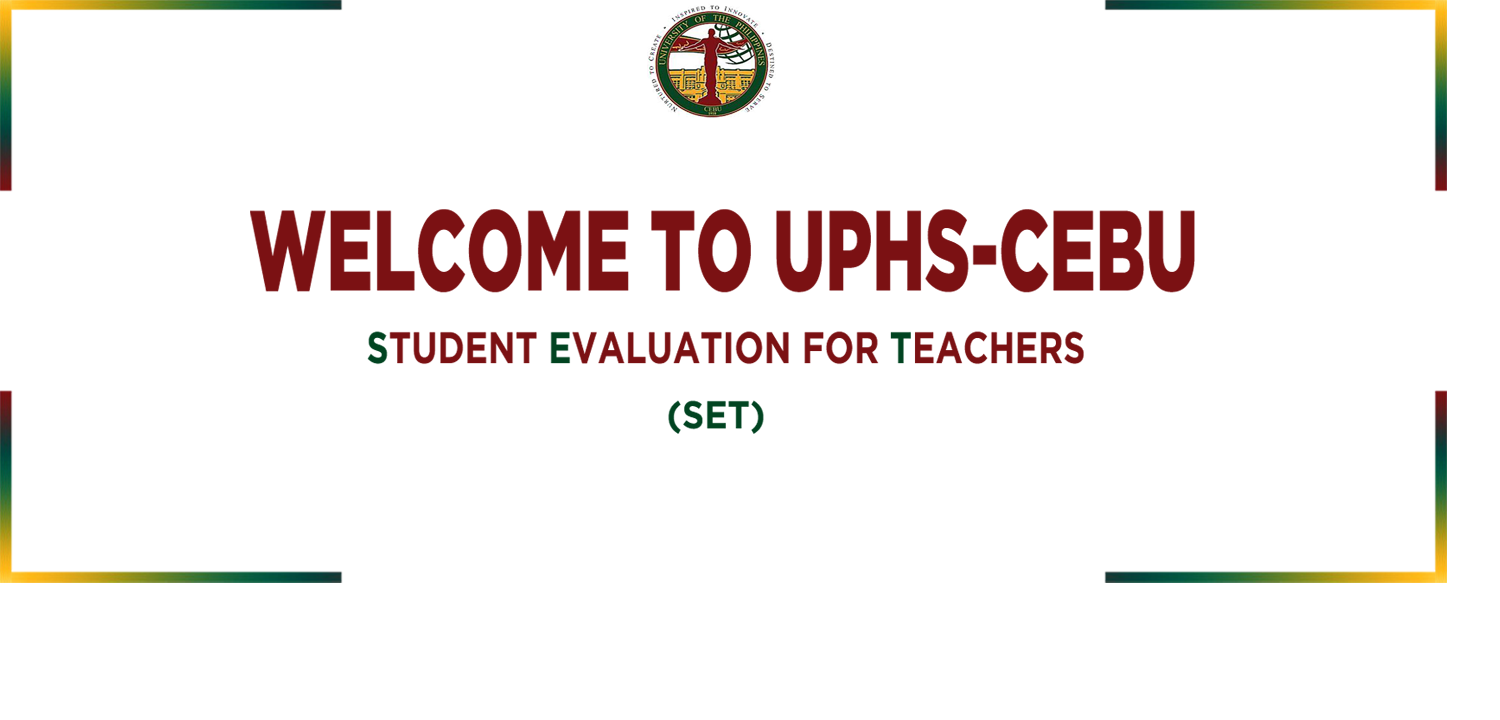
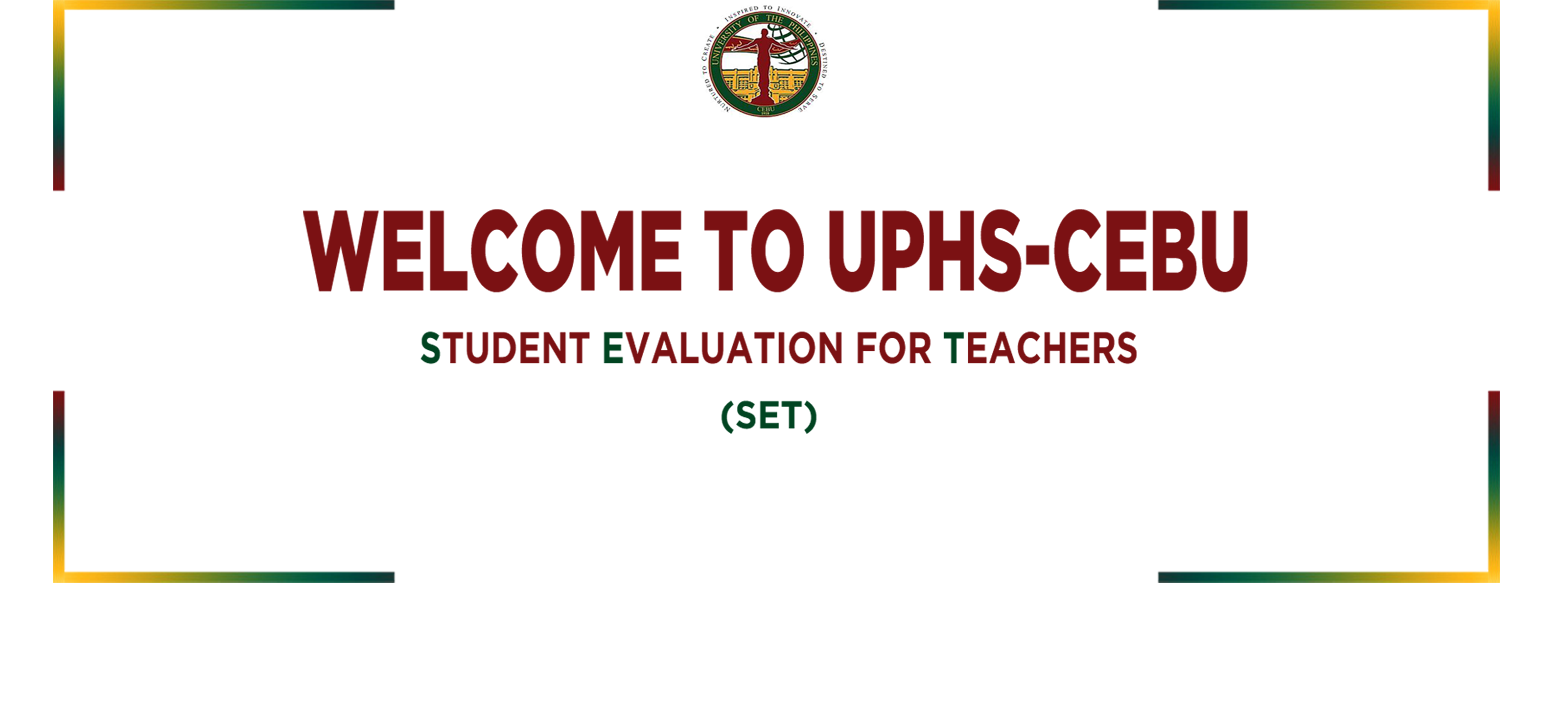
sidebar on top of page

diff --git a/public/js/custom/common.js b/public/js/custom/common.js
@@ -1,0 +1,26 @@
+function getSize() {
+    const width  = window.innerWidth || document.documentElement.clientWidth || 
+    document.body.clientWidth;
+    const height = window.innerHeight|| document.documentElement.clientHeight|| 
+    document.body.clientHeight;
+
+    return {width: width, height: height};
+}
+
+let footer = document.getElementById('footer');
+let header = document.getElementById('header');
+let fHeight = footer.offsetHeight;
+let hHeight = header.offsetHeight;
+let windowSize = getSize();
+
+$(window).resize(function() {
+    // Do something more useful
+    $('#sidebar').css("height", windowSize.height);
+// conso
+});
+
+$(document).ready(function () {
+    $('#sidebarCollapse').on('click', function () {
+        $('#sidebar').toggleClass('active');
+    });
+});

diff --git a/public/css/custom/styles.css b/public/css/custom/styles.css
@@ -375,6 +375,8 @@ a:focus {
   align-items: stretch;
   perspective: 1500px;
   background-color: #e9dbc1;
+  -ms-overflow-style: none;  /* IE and Edge */
+  scrollbar-width: none;  /* Firefox */
 }
 
 #sidebar {
@@ -386,6 +388,11 @@ a:focus {
   color: #e9dbc1;
   transition: all 0.6s cubic-bezier(0.945, 0.02, 0.27, 0.665);
   transform-origin: bottom left;
+}
+
+/* Hide scrollbar for Chrome, Safari and Opera */
+#sidebar::-webkit-scrollbar {
+  display: none;
 }
 
 #sidebar.active {

diff --git a/app/Views/template/pageTemplate.php b/app/Views/template/pageTemplate.php
@@ -18,7 +18,7 @@
 
     <link href="<?=base_url()?>/public/css/custom/styles.css" rel="stylesheet">
     <?php if(isset($css)):?>
-      <?= echoFiles($css);?>
+      <?=echoFiles($css);?>
     <?php endif;?>
   </head>
   <body>
@@ -32,98 +32,103 @@
     </section>
     <!-- header section ends -->
     <!-- Sidebar Holder -->
-    <div class="wrapper d-flex align-items-stretch">
-      <nav id="sidebar">
-        <div class="sidebar-header">
-          <div class="img bg-wrap text-center py-4" style="background-image: url(<?=base_url()?>public/samplecover.jpg);">
-            <div class="user-logo">
-              <img class="rounded-cricle" src="<?=base_url()?>/public/LogoCitronella.png">
-              <h3>CITRONELLA</h3>
+    <!-- <h1>nice</h1> -->
+    <div>
+      <div class="d-flex" style="position: absolute; z-index: 1;">
+        <nav id="sidebar" style="height: 109.5vh; overflow-y: scroll">
+          <div class="sidebar-header">
+            <div class="img bg-wrap text-center py-4" style="background-image: url(<?=base_url()?>public/samplecover.jpg);">
+              <div class="user-logo">
+                <img class="rounded-cricle" src="<?=base_url()?>/public/LogoCitronella.png">
+                <h3>CITRONELLA</h3>
+              </div>
             </div>
           </div>
-        </div>
 
-          <!-- <ul class="list-unstyled components">
-              <li>
-                  <a href="#"><i class="bi bi-person-circle"></i>  Profile</a>
-                  <a href="#"><i class="bi bi-gear-wide-connected"></i>  Settings and Privacy</a>
-                  <a href="<?=base_url();?>"><i class="bi bi-house-fill"></i> Dashboard</a>
-                  <a href="#"><i class="bi bi-zoom-in"></i> About</a>
-                  <a href="#"><i class="bi bi-telephone-fill"></i> Contact</a>
-              </li>
+            <!-- <ul class="list-unstyled components">
+                <li>
+                    <a href="#"><i class="bi bi-person-circle"></i>  Profile</a>
+                    <a href="#"><i class="bi bi-gear-wide-connected"></i>  Settings and Privacy</a>
+                    <a href="<?=base_url();?>"><i class="bi bi-house-fill"></i> Dashboard</a>
+                    <a href="#"><i class="bi bi-zoom-in"></i> About</a>
+                    <a href="#"><i class="bi bi-telephone-fill"></i> Contact</a>
+                </li>
+            </ul>
+            <ul class="list-unstyled CTAs">
+                <a class="nav-link" href="#"><input type="button" value="View Report" name="viewResults"></a>
+                <a class="nav-link" href="#"><input type="button" value="Print Report" name="printReports"></a>
+                <a class="nav-link" href="<?=base_url()?>/send_email"><input type="button" value="Update Email" name="printReports"></a>
+
+                <div class="logout">
+                    <a class="nav-link" id="logout" href="#"><input type="button" value="LOGOUT" name="logOut"></a>
+                </div>
+            </ul> -->
+
+          <ul class="list-unstyled components">
+            <li>
+              <a href="<?=base_url('dashboard');?>"><i class="bi bi-house-fill"></i> Dashboard</a>
+              <a href="#"><i class="bi bi-person-circle"></i>  Profile</a>
+              <a href="#"><i class="bi bi-gear-wide-connected"></i>  Settings</a>
+              <a href="#"><i class="bi bi-zoom-in"></i> About</a>        
+            </li>
+          </ul>
+          <ul class="list-unstyled components">
+            <li class="active">
+              <a href="#report" data-toggle="collapse" aria-expanded="false" class="dropdown-toggle">Report</a>
+              <ul class="collapse list-unstyled" id="report">
+                <li>
+                    <a href="#">View Report</a>
+                </li>
+                <li>
+                    <a href="#">Print Report</a>
+                </li>
+              </ul>
+              <a href="#evaluation" data-toggle="collapse" aria-expanded="false" class="dropdown-toggle">Evaluation</a>
+              <ul class="collapse list-unstyled" id="evaluation">
+                <li>
+                  <a href="#">Set Evaluation Status</a>
+                </li>
+                <li>
+                  <a href="#">Monitor Progress</a>
+                </li>
+              </ul>
+              <a href="#users" data-toggle="collapse" aria-expanded="false" class="dropdown-toggle">Users</a>
+              <ul class="collapse list-unstyled" id="users">
+                <li>
+                  <a href="<?=base_url();?>/update/add" name="addUser">Add Users</a>
+                </li>
+                <li>
+                  <a href="<?=base_url();?>/update/student">View Students</a>
+                </li>
+                <li>
+                  <a href="<?=base_url();?>/update/admin">View Admin</a>
+                </li>
+              </ul>
+            </li>
           </ul>
           <ul class="list-unstyled CTAs">
-              <a class="nav-link" href="#"><input type="button" value="View Report" name="viewResults"></a>
-              <a class="nav-link" href="#"><input type="button" value="Print Report" name="printReports"></a>
-              <a class="nav-link" href="<?=base_url()?>/send_email"><input type="button" value="Update Email" name="printReports"></a>
-
-              <div class="logout">
-                  <a class="nav-link" id="logout" href="#"><input type="button" value="LOGOUT" name="logOut"></a>
-              </div>
-          </ul> -->
-
-        <ul class="list-unstyled components">
-          <li>
-            <a href="<?=base_url('dashboard');?>"><i class="bi bi-house-fill"></i> Dashboard</a>
-            <a href="#"><i class="bi bi-person-circle"></i>  Profile</a>
-            <a href="#"><i class="bi bi-gear-wide-connected"></i>  Settings</a>
-            <a href="#"><i class="bi bi-zoom-in"></i> About</a>        
-          </li>
-        </ul>
-        <ul class="list-unstyled components">
-          <li class="active">
-            <a href="#report" data-toggle="collapse" aria-expanded="false" class="dropdown-toggle">Report</a>
-            <ul class="collapse list-unstyled" id="report">
-              <li>
-                  <a href="#">View Report</a>
-              </li>
-              <li>
-                  <a href="#">Print Report</a>
-              </li>
-            </ul>
-            <a href="#evaluation" data-toggle="collapse" aria-expanded="false" class="dropdown-toggle">Evaluation</a>
-            <ul class="collapse list-unstyled" id="evaluation">
-              <li>
-                <a href="#">Set Evaluation Status</a>
-              </li>
-              <li>
-                <a href="#">Monitor Progress</a>
-              </li>
-            </ul>
-            <a href="#users" data-toggle="collapse" aria-expanded="false" class="dropdown-toggle">Users</a>
-            <ul class="collapse list-unstyled" id="users">
-              <li>
-                <a href="<?=base_url();?>/update/add" name="addUser">Add Users</a>
-              </li>
-              <li>
-                <a href="<?=base_url();?>/update/student">View Students</a>
-              </li>
-              <li>
-                <a href="<?=base_url();?>/update/admin">View Admin</a>
-              </li>
-            </ul>
-          </li>
-        </ul>
-        <ul class="list-unstyled CTAs">
-          <a class="nav-link" href="<?=base_url()?>/send_email"><input type="button" value="Update Email" name="printReports"></a>
-          <div class="logout">
-            <a class="nav-link" id="logout" href="<?=base_url('dashboard/logout')?>"><input type="button" value="LOGOUT" name="logOut"></a>
+            <a class="nav-link" href="<?=base_url()?>/send_email"><input type="button" value="Update Email" name="printReports"></a>
+            <div class="logout">
+              <a class="nav-link" id="logout" href="<?=base_url('dashboard/logout')?>"><input type="button" value="LOGOUT" name="logOut"></a>
+            </div>
+          </ul>
+        </nav>
+        <!-- Page Content Holder -->
+        <div class="navIcon">
+          <div class="navbar-header">
+            <button type="button" id="sidebarCollapse" class="navbar-btn"89>
+              <i class="bi bi-list fa-2x"></i>
+            </button>
           </div>
-        </ul>
-      </nav>
-      <!-- Page Content Holder -->
-      <div class="navIcon">
-        <div class="navbar-header">
-          <button type="button" id="sidebarCollapse" class="navbar-btn"89>
-            <i class="bi bi-list fa-2x"></i>
-          </button>
         </div>
       </div>
-      <?= $this->renderSection('content');?>
+      <div class="wrapper d-flex align-items-stretch">
+        <?= $this->renderSection('content');?>
+      </div>
     </div>
     <!-- footer section starts  -->
 
-    <section id="footer" class="container-fluid">
+    <section id="footer" class="container-fluid" style="position: relative; z-index: 1000;">
       <div class="row-md-4">
         <div class="contactLinks">
           <h3><i class="bi bi-person-circle"></i> Contact Us:</h3>
@@ -153,6 +158,8 @@
     <script src="<?=base_url()?>/public/js/bootstrap-4.6.0/bootstrap.bundle.min.js"></script>
     <script src="<?=base_url()?>/public/js/bootstrap-4.6.0/bootstrap.min.js"></script>
     <script src="<?=base_url()?>/public/js/datatables/jquery.dataTables.min.js"></script>
+
+    <!-- <script src="<?=base_url()?>/public/js/custom/common.js"></script> -->
     <script>
         var BASE_URI = "<?=base_url();?>";
         var CURRENT_URI = "<?=uri_string();?>";
@@ -160,11 +167,11 @@
     <?php if(isset($js)):?>
       <?= echoFiles($js);?>
     <?php endif;?>
-    <script type="text/javascript">
+    <script>
       $(document).ready(function () {
-        $('#sidebarCollapse').on('click', function () {
-          $('#sidebar').toggleClass('active');
-        });
+          $('#sidebarCollapse').on('click', function () {
+              $('#sidebar').toggleClass('active');
+          });
       });
     </script>
   </body>

diff --git a/app/Views/user_mgt/Dashboard.php b/app/Views/user_mgt/Dashboard.php
@@ -1,7 +1,7 @@
 <?= $this->extend('template/pageTemplate');?>
 
 <?= $this->section('content');?>
-    <section class="Dashboard">
+    <section class="Dashboard" style="margin: auto;">
         <!-- INSERT CONTENT HERE -->
         <section id="Contents">
             <div class="row-md-6 align-text-center">
@@ -10,8 +10,6 @@
                     <img src="public/Welcome Message.png" class="img-fluid" alt="Responsive image">
                 </div>
             </div>
-
-            
         </section>
     </section>
 <?= $this->endSection();?>

diff --git a/app/Controllers/Home.php b/app/Controllers/Home.php
@@ -231,7 +231,7 @@ class Home extends BaseController
 			'role'			=> $user['role'],
       'isLoggedIn' 	=> true,
       'passwordReset' => false,
-			'emailVerified' => false,
+			'emailVerified' => true,
 			'userToken'		=> $userToken,
 			'loginDate'		=> date('Y-m-d H:i:s')
 		];
